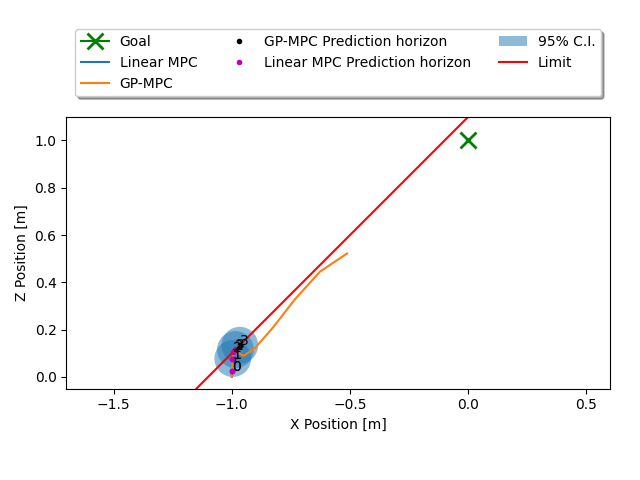
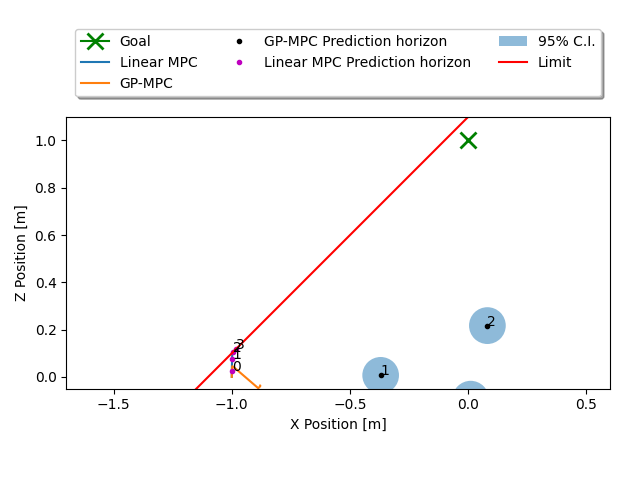
working on new example with jax

diff --git a/safe_control_gym/controllers/mpc/foresee_cbf_qp.py b/safe_control_gym/controllers/mpc/foresee_cbf_qp.py
@@ -24,6 +24,9 @@ import time
 import torch
 import gpytorch
 
+import jax.numpy as jnp
+from jax import jit, lax, grad
+
 from copy import deepcopy
 from skopt.sampler import Lhs
 from functools import partial
@@ -376,6 +379,76 @@ class FORESEE_GPMPC2(MPC):
         """Sets up nonlinear optimization problem including cost objective, variable bounds and dynamics constraints.
 
         """
+
+
+        # Here do my jax thing. leave casadi
+
+        nx, nu = self.model.nx, self.model.nu
+        T = self.T
+
+        A, B, dt = self.prior_ctrl.dfdx, self.prior_ctrl.dfdu, self.dt
+        x_eq = self.prior_ctrl.X_LIN[:,None].reshape(-1,1)
+        u_eq = self.prior_ctrl.U_LIN[:,None].reshape(-1,1)
+
+        # what to do about gaussian process ...
+        # just use GP jax?? better option at this point maybe
+
+
+        def controller(params, X, x_goal):
+
+            p = jnp.array([ X[0,0], X[2,0] ])
+            pdot = jnp.array([ X[1,0], X[3,0] ])
+
+            kx = params[0]
+            kv = params[1]
+            
+
+            # attraction
+            vd = kx * (p - x_goal)
+            ad_attraction = kv * (pdot - vd)
+
+            # Repulsion
+            ad_repulsion = 
+
+            T1 = kT1x * ad[0] + kT1y * ad[1] + kT10
+            T2 = kT1x * ad[0] + kT2y * ad[1] + kT20
+
+            retrun jnp.array([T1, T2]).reshape(-1,1)
+
+
+
+            thrust_d = 
+
+
+
+            ad = kv * (X[]  )
+
+
+        def predict(X, T):
+
+            states = jnp.zeros((nx, T))
+            states = states.at[:,0].set( X[:,0] )
+            def body(i, inputs):
+                states = inputs
+                u = controller(states[:,i])
+                states = states.at[:,i+1].set( step(states[:,i], u) )
+                return states            
+            return body(states)
+
+
+
+
+
+
+
+
+
+
+        ########################################################
+
+
+
+
         nx, nu = self.model.nx, self.model.nu
         T = self.T
         # Define optimizer and variables.

diff --git a/experiments/annual_reviews/figure6/gp_mpc_experiment.py b/experiments/annual_reviews/figure6/gp_mpc_experiment.py
@@ -191,7 +191,7 @@ if __name__ == "__main__":
         # Run with the learned gp model.
 
         run_results = ctrl.run(env=test_env,
-                               max_steps=10)  #50)
+                               max_steps=20)  #50)
         ctrl.close()
         # Plot the results.
         prior_run = munch.munchify(prior_results)
